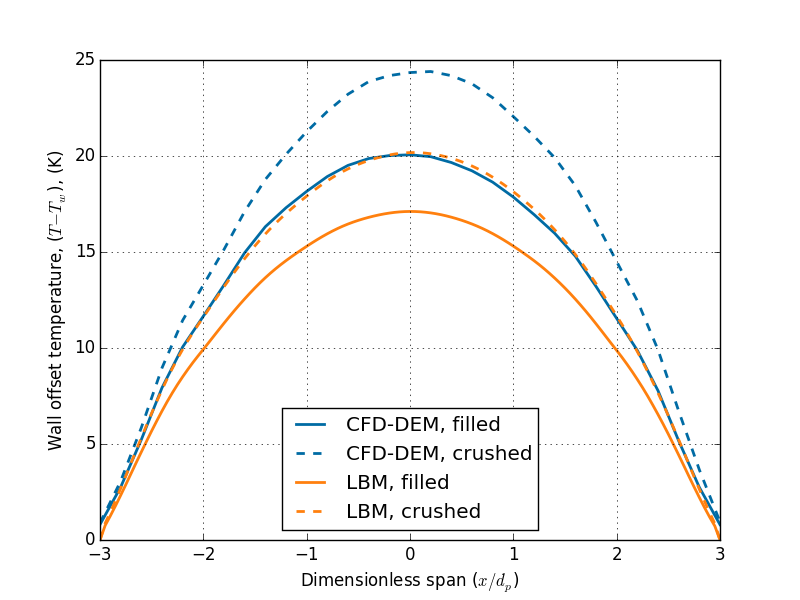
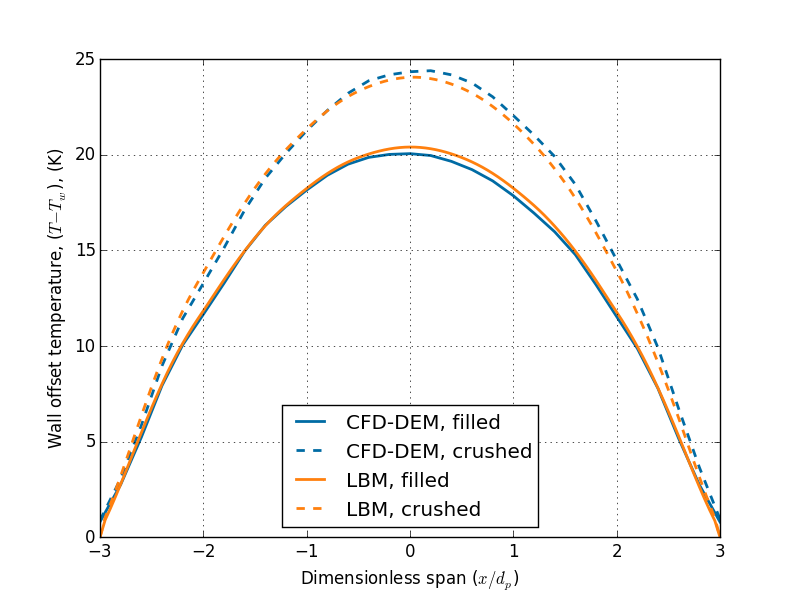
adds changes before fengchen review

diff --git a/chapters/summary.tex b/chapters/summary.tex
@@ -1,46 +1,32 @@
 \chapter{Summary}\label{sec:summary}
-The objectives of the research was to develop predictive capabilities for temperature distributions in tritium breeding pebble beds with altered packing structures. The scope of the thesis includes development of DEM, coupled CFD-DEM, and LBM-DEM models; and application of the models under several fusion-relevant conditions to provide understanding of packing alterations and their ramifications on temperature distributions.
 
-\section{Development of Predictive Capabilities}
-\subsection{Discrete Element Method Models of Solid Breeder Heat Transfer}
-The discrete element method is important for blanket researchers and designers because it allows interrogation of solid-solid interactions in pebble beds and nature of heat transfer on scales at which packing structures operate. In this way, the models allow exploration of evolving packing structures that will occur during operation of a ceramic pebble bed. The DEM modeling of heat transfer was validated against experimental measurements of effective thermal conductivity of pebble beds in vacuum, when contact conductance dominates. I showed that smooth-sphere approximation of pebbles was seen to over-predict the ability of pebbles to transport energy between contacts. Reductions in contact conductance due to roughness were then shown to allow DEM models to approach experimental measurements.
+Numerical modeling development and application were conducted to understand thermal responses of pebble beds under conditions of altered packing, \textit{viz.}, crushed and fragmented pebbles and ultimately demonstrated predictive capabilities of our models under these conditions. The scope of the thesis includes development of DEM, coupled CFD-DEM, and LBM-DEM models; and application of the models under several fusion-relevant conditions to provide understanding of packing alterations and their ramifications on temperature distributions.
 
-A new phenomenological model of fragmentation is introduced into DEM for simulating crushed pebbles. The modeling approach allows fragments of arbitrary size to be inserted into the system in an energy- and mass/volume-conserving fashion. A parametric study on fragment sizes revealed that smaller pebble fragments were seen to be capable of traveling relatively long distances before re-settling. Redistribution of mass was seen in increased local packing fractions of beds. Nuclear heating of the beds will also be affected by mass redistribution and was studied during applications of the models for ITER-relevant pebble beds.
+%\section{Development of Predictive Capabilities and Modeling}
 
-From a mechanical perspective on packed bed modeling with DEM, experimental measurements on crushed pebbles showed a wide spread in force-displacement responses. A novel approach to capture the phenomena numerically was with a modified Young's modulus which replicated the reduction in stiffness seen in experiments. The model with modified Young's moduli predict more compliant pebble beds and smaller peak contact forces in beds, which ultimately led to fewer predicted crushed pebbles from DEM models.
+%The discrete element method was first applied to studying solid breeder pebble beds with two-dimensional models by Zi Lu at UCLA in 2000.\cite{Lu2000} The modeling approach is recognized as providing valuable information of packing states in pebble beds and, as such, has gainted traction in the fusion community and now groups in the US, EU, India, Japan, Korea, and China have all begun DEM modeling efforts. 
+This thesis presents the most complete and validated three-dimensional, dynamic thermal DEM modeling for solid breeders, to date. Currently-available DEM models of heat transfer due to contact conductance was validated against experimental measurements of effective thermal conductivity of pebble beds in vacuum, when contact conductance dominates. I showed that smooth-sphere approximation of pebbles, as used in all other DEM models of packed beds, was seen to over-predict the ability of pebbles to transport energy between contacts with an error of 155\%. A roughness model was implemented into the numeric calculation of contact conductance in DEM and the resultant effective thermal conductivity calculations reduced the error to only approximately 50\%. 
 
+A new phenomenological model of fragmentation was developed for DEM to simulate crushed pebbles and concomitant effects on pebble bed thermomechanics. The modeling approach allows fragments of arbitrary size to be inserted into the system in an energy- and mass/volume-conserving fashion. A parametric study on fragment sizes revealed that smaller pebble fragments were seen to be capable of traveling relatively long distances before re-settling; approximately 10\% of pebbles traveled more than the original pebble diameter. Redistribution of mass was seen in increased local packing fractions of beds. Nuclear heating of the beds will also be affected by mass redistribution and was studied during applications of the models for ITER-relevant pebble beds. From a mechanical perspective on packed bed modeling with DEM, experimental measurements on crushed pebbles showed a wide spread in force-displacement responses. A novel approach to capture the phenomena numerically was with a modified Young's modulus which replicated the reduction in stiffness seen in experiments. Variations in elastic modulus is implemented numerically with Gaussian distributions fit to experimental measurements in DEM. DEM models with modified Young's moduli predict more compliant pebble beds and smaller peak contact forces in beds, which ultimately led to fewer predicted crushed pebbles from DEM models.
 
-\subsection{CFD-DEM}
-The interstitial helium purge gas is introduced into the heat transfer modeling of solid breeders by means of a continuum approach with volume-averaged integrations of Navier-Stokes and energy conservation equations. Coupling between the volume-averaged computational fluid dynamics (CFD) model and DEM is dynamic and two-way. Experimental correlations for Nusselt number and drag coefficient are used to calculate exchange coefficients in every cell of the CFD mesh. The exchange coefficients are applied to heat transfer and momentum equations for DEM particles located inside the CFD cell and the summation of those interactions, on a volume-average basis, are included as source terms to the fluid conservation equations. The volume-averaged approach to solving conservation equations for helium allows for efficient computational calculation of two-phase flow in packed beds.
+%Coupled models of volume-averaged CFD and DEM have existed in porous media research since the approach was introduced by Tsujita\etal~in 1992.\cite{Tsuji1992} 
+The work of this thesis also represents the first application of CFD-DEM approach to solid breeder research for which nuclear heat generation in solids, tight-pack structures, and slow-moving purge gas fluid phase are dominate physical phenomena. Due to the unique operating conditions of solid breeders, advancements to the CFD-DEM code were also required to complete the research objectives of this work. Using an exact analytic solution for a single sphere with heat generation in a quiescent fluid, I showed how the lumped capacitance method, an assumption inherent to DEM, remains valid for both transient and steady-state solutions after a so-called Jeffreson correction is used in the calculation of heat transfer coefficient from Nusselt correlations. The algebraic form of Jeffreson correction was implemented in the coupling between CFD-DEM with negligible computational overhead. Corrected versions of heat transfer coefficients compensated for low-Biot number errors due to low solid conductivity with large volumetric heat sources. Once the correction factor was implemented for calculations of inter-phase heat transfer exchange coefficients, temperature predictions of CFD-DEM models were validated against experimental measurements of effective conductivity with stagnant helium with excellent agreement. Furthermore, the pressure drop measured in CFD-DEM packed bed models were shown to match the Kozeny-Carman correlation over the range of all Reynolds numbers relevant to solid breeder designs.
 
-Using an exact analytic solution for a single sphere with heat generation in a quiescent fluid, I showed how the lumped capacitance solution can remain valid for both transient and steady-state solutions after a so-called Jeffreson correction was used in the calculation of heat transfer coefficient from Nusselt correlations. The algebraic form of Jeffreson correction was implemented in the coupling between CFD-DEM with negligible computational overhead. Corrected versions of heat transfer coefficients compensated for low-Biot number errors due to low solid conductivity with large volumetric heat sources.
+%Finally, advantages of using the lattice-Boltzmann method for studying packed or porous flow have been recognized since at least 1992 when Benzi\etal~studied its application for flows in complex geometries.\cite{Benzi1992} 
+Finally, in terms of modeling development, in this thesis is also the first application of the lattice-Boltzmann method for modeling the conjugate heat transfer of flowing helium and volumetric heating of pebble beds. We also showed that proper selection of lattice properties is critical for LBM simulations of fluid flow and heat transfer. For densely packed solid breeder beds, we found a resolution of 20 voxels per pebble diameter was sufficient for results that were: stable, capable of reproducing correct hydrodynamics, and, importantly, computationally tractable. Consistency in packing structure is also guaranteed with a numerical scheme for mapping DEM pebble information and LBM with automated  modification of pebble radii; accomplished through measurements of digital packing fraction in LBM lattices. The schemes are written as methods available to for 
 
-Heat transfer predictions of CFD-DEM models were validated against numerical measurements of effective conductivity with stagnant helium. Furthermore, the pressure drop measured in CFD-DEM packed bed models were shown to match the Kozeny-Carman correlation over the range of all Reynolds numbers relevant to solid breeder designs.
+Studying the thermomechanical impact of irradiation damage on ceramic materials, temperature profiles were predicted for pebble beds with irradiation-induced reductions in solid thermal conductivity. With interstitial fluid, reduction in effective thermal conductivity was linearly related to reduction in solid conductivity. The model, in the limit of stagnant interstitial fluid was shown to match common SBZ correlations for effective thermal conductivity as a function of solid conductivity. However, the CFD-DEM-based model is also applicable in the cases of altered packing, flowing fluid, and other mixed pebble bed types which are all conditions beyond the realm of SBZ application.
 
-\subsection{DEM-LBM}
-6) Method for mapping DEM to LBM
-7) Resolution \& effects on hydrodynamics
+CFD-DEM models were used to conduct multi-scale studies of granular heat transfer in representative tritium-breeding ceramic pebble bed volumes with altered packing structures as a result of crushed pebbles. The studies were performed with parametric variations of: bed orientation with respect to gravity, pebble crushing amount, initial packing fraction, and crushed fragmentation size. The models revealed that pebble crushing and bed resettling effects on temperature are complicated, synergistic functions of breeder design and ceramic material employed. From the predicted temperature distributions, several recommendations to breeder designers were put forth. For instance, if one were using a material known to have a limited crush strength, one might accept that many pebbles could break (at least up to 5\%, as studied here) over the life of the breeder and choose to employ the European ITER-style TBM because it saw smaller increases in temperature after long operation of the breeder. Alternatively, if one had a ceramic material with a larger crush strength, the vertical design of TBM, common to many other Party designs, would be preferable as it generally retained lower overall and maximum bed temperatures when fewer pebbles in the ensemble were crushed.
 
-% SUMMARY OF CH 5
-Toward development of hydrodynamically accurate lattice-Boltzmann method (LBM) nodal construction, several numerical studies were performed. In
-
-
-
-We also showed that proper selection of lattice properties can lead to stable solutions that are also faithful to the macroscopic fluid mechanics being modeled. Consistency in packing structure representation is maintained between DEM and LBM through modification of pebble radii when mapped on LBM voxels; accomplished through measurements of digital packing fraction in LBM lattices. We then considered the effects of grid sizing and resolution on stability of packed bed simulations. For densely packed beds, we found a resolution of 20 pixels/nodes per pebble diameter was sufficient for results that were: stable, capable of reproducing correct hydrodynamics, and computationally tractable.
-
-\section{Application of models}
-Once preliminary validation had been performed with the DEM, CFD-DEM, and LBM-DEM models developed, the models were applied to various studies of fusion-relevant cases of pebble bed volumes that extend beyond currently known configurations.
-
-In the first application of the CFD-DEM models developed for this research, a study was performed on the effects of irradiation damage to solid conductivity on overall effective thermal conductivity of pebble beds. The study was carried out by numerically reducing solid conductivity and measuring the resultant effective conductivity in a bed with and without stagnant helium. From the results, it was seen that effective conductivity of pebble beds with irradiation damage to the solid phase conductivity followed trends predicted by effective thermal conductivity correlations such as the SBZ model.
-
-I then used the CFD-DEM modeling tools to conduct several multi-scale studies of granular heat transfer in representative tritium-breeding ceramic pebble bed volumes. The studies focused on measuring the temperature response in tritium breeding volumes with altered packing structures as a result of crushed pebbles. The studies were performed with parametric variations of: bed orientation with respect to gravity, pebble crushing amount, initial packing fraction, and crushed fragmentation size.
-
-The results from the models developed in this thesis revealed that pebble crushing and bed resettling effects on temperature are complicated, synergistic functions of breeder design and ceramic material employed. From the predicted temperature distributions, several recommendations to breeder designers were put forth. For instance, if one were using a material known to have a limited crush strength, one might accept that many pebbles could break (at least up to 5\%, as studied here) over the life of the breeder and choose to employ the European ITER-style TBM because it saw smaller increases in temperature after long operation of the breeder. Alternatively, if one had a ceramic material with a larger crush strength, the vertical design of TBM, common to many other Party designs, would be preferable as it generally retained lower overall and maximum bed temperatures when fewer pebbles in the ensemble were crushed.
-
-Finally, lattice-Boltzmann model developed in this thesis was applied to study effects of helium's tortuous flow through tightly packed solid breeder volumes. With the model, I was capable of considering pore-scale influences of crushing on void fraction distribution and consequent velocity fields of pebble beds. I found that crush fragments increased tortuosity of pebble beds, in spite of the constant overall void fraction of the bed overall. The increased tortuosity resulted in considerably higher transverse thermal dispersion for pebble beds with crushed fragments; however, transverse thermal conductivities for crushed and non-crushed beds were negligible compared to molecular diffusion of heat in transverse directions as a result of low Peclet numbers anticipated for solid breeder purge gas. I also showed that temperature distributions in low-Peclet packed beds were well characterized by the considerably less computationally draining volume-averaging techniques of CFD-DEM, as measured by comparison of temperature profiles between LBM-DEM and CFD-DEM.
+The tortuous advection of energy from helium moving through the complex interstitial voids in packed beds, over the range of Reynolds numbers currently relevant to solid breeder designs, was negligible compared to molecular diffusion of energy in the direction transverse to flow. Nevertheless, for equivalent packing fractions, pebble beds with crush fragments increased tortuosity of pebble beds due to localized increases in packing fractions, in spite of the constant overall void fraction of the bed overall. The increased tortuosity resulted in considerably higher transverse thermal dispersion for pebble beds with crushed fragments, an increase of 23\%. However, transverse thermal conductivities for crushed and non-crushed beds were both negligible compared to heat conducted in transverse directions. LBM models confirmed that packed beds with low-Peclet flows were, in fact, well characterized by the considerably less computationally draining volume-averaging techniques of CFD-DEM, as measured by comparison of temperature profiles between LBM-DEM and CFD-DEM.
 
 \section{Recommendation for Future Work}
-There are many causes that can lead to alterations of packing structures inside solid breeder volumes. Yet in this thesis, I considered only the heat transfer response to packing alterations due to crushed pebbles and fragmentation.
 
+Any predictive tool must be validated. The models developed in this thesis were meant to study packed beds due to alterations in the structure due to crushed pebbles because of observations made on fragmented \lis~and cracked \lit~pebbles coming out of post-irradiation experiments -- as well as the observable low crush force of \lis~in single pebble crush experiments. Paradoxically, the models of this thesis were developed because experimental observation of packing structures with fragmented pebbles is extremely difficult, and yet the numerical developments can not be validated without proper experimental data. Careful attention must be paid to experimental efforts which may yield data which can directly validate DEM results, even on a small scale, such that large-scale simulations which are untenable with experiments may be performed. 
 
-Moreover, large packing fractions are generally avoided in solid breeder blankets in order to avoid their concomitant increase in pressure drop. However, from the investigation performed with heat transfer in lattice-Boltzmann simulations, it is worth revisiting the topic from the point of view of energy management and the ability for packed beds to sustain larger power densities. The lattice-Boltzmann technique can, however, help in studying novel concepts for increasing heat transfer in packed beds in order to increase power density, such as the increase in dispersive conductivity due to mixed pebble beds and high packing fractions.
+The numeric models and schemes developed in this thesis were done on top of popular open-source DEM code, LIGGGHTS, CFD code, OpenFOAM, and LBM code, Palabos. This was done with the intention that the modules developed here may be used by future researchers on pebble beds. Beyond pebble crushing, however, there are several other causes that may lead to alterations of packing structures inside solid breeder volumes and they can be added on top of the code modules developed here. For example, contact forces and other information as a function of time is available from the DEM code. While \lit~pebbles have shown themselves to be much more resistant to crushing (crush forces are nearly an order of magnitude larger than \lis~pebbles) experiments we have performed on \lit~pebble beds have revealed their tendency to `neck' or sinter at contact areas. Sintering and creep-diffusion may have a major impact on heat transfer in pebble beds and we are capable of modeling them on the pebble scale with DEM. 
+
+DEM and CFD-DEM models should also be applied to studying methods for enhancing heat transfer in pebble beds due to mixed breeder/multiplier concepts such as the Japanese design of titanium beryllides (\ce{Be12Ti}). Mixed volumes of both neutron multiplier and tritium breeder may have high tritium breeding ratios with acceptable tritium inventory of the beryllides. Moreover, the dense packing available from potentially large differences of pebble radii can have advantageous impacts on heat transfer in pebble beds. DEM can reveal changes to contact forces, contact conductance, and segregation of material after many thermal cycles. 
+
+Finally, large packing fractions are generally avoided in solid breeder blankets in order to avoid their concomitant increase in pressure drop. However, from the investigation performed with heat transfer in lattice-Boltzmann simulations, it is worth revisiting the topic from the point of view of energy management and the ability for packed beds to sustain larger power densities. We observed that transverse thermal dispersion was negligible at low Peclet numbers and with mono-sized pebble packings in the LBM-based study. Increasing flow velocity will increase Peclet number and pressure drop, though at different rates. On the one hand, pressure drop is linearly proportional to $u_f$ until about $\Re = 100$, above which it is proportional to $u_f^2$. As an example, the Korean TBM design has a particle $\Re \approx 1$. This could allow a ten-fold increase in velocity with only a linearly similar increase in pressure drop. On the other hand, Kuwahara \etal~fit a correlation for $k_\text{disp}$ to be proportional to $\Pe^2$, and thus $u_f^4$. As a consequence, dispersive conductivity increases at a much more rapid rate than pressure drop and heat transfer enhancements due to dispersive conductivity may overwhelm the negative effects of increased pressure drop.

diff --git a/chapters/application.tex b/chapters/application.tex
@@ -882,11 +882,11 @@ Applying volume-averaging-theory (VAT), the intrinsic energy equation for a flui
 \end{equation}
 where $\langle T_f\rangle^f$ is the intrinsic volume average of fluid temperature and $\langle T_s\rangle^s$ is the intrinsic volume average of solid phase temperature. $h$ is a closure term for heat transfer coefficient between solid and fluid phases which is applied over the volumetric interfacial surface area, $S_w = A_{fs}/V$, in the REV. The effective conductivity for the fluid is a tensor that is composed of the stagnant thermal conductivity, including diffusive conductivity and the `tortuousity' conductivty, and the dispersion conductivity,
 \begin{equation}
-\vec{k}_{f,\text{eff}} = \cdot\nabla\langle T_f\rangle^f  = \vec{k}_{i,\text{stag}}\cdot\nabla\langle T_f\rangle^f + \vec{k}_{i,\text{disp}}\cdot\nabla\langle T_f\rangle^f 
+\vec{k}_{f,\text{eff}} \cdot\nabla\langle T_f\rangle^f  = \vec{k}_{i,\text{stag}}\cdot\nabla\langle T_f\rangle^f + \vec{k}_{i,\text{disp}}\cdot\nabla\langle T_f\rangle^f 
 \end{equation}
 where
 \begin{align}
-\vec{k}_{f,\text{stag}}\cdot\nabla\langle T_f\rangle^f &= \epsilon k_f \nabla\langle T_f\rangle^f + \frac{1}{V}\int_{Afs}\! T_f \,\mathrm{d}\vec{A}
+\vec{k}_{f,\text{stag}}\cdot\nabla\langle T_f\rangle^f &= \epsilon k_f \nabla\langle T_f\rangle^f + \frac{1}{V}\int_{Afs}\! T_f \,\mathrm{d}\vec{A} \\
 \vec{k}_{f,\text{disp}} \cdot \nabla \langle T\rangle^f &= -\epsilon\rho_f C_{pf}\langle T_f' \vec{u}_f'\rangle^f
 \end{align}
 

diff --git a/scripts/lbm/temperature-comparison-filled-crushed.py b/scripts/lbm/temperature-comparison-filled-crushed.py
@@ -53,7 +53,7 @@ x_lbm = np.linspace(-3, 3, 121)
 # LBM ~~~~~~~~~~~~~~~~~~~~~~~~~~~~~~~~~~~~~~~~~~~~~~~~~~~~~~~~~~~
 with open('y-profiles-filled.pkl', 'rb') as f:
     [v, T_filled, phi_y] = pickle.load(f)
-    T_filled = T_filled*109000
+    T_filled = T_filled*130000
 deltaT = np.max(T_filled) - np.min(T_filled)
 keff_filled = q_nuc*phi_k*L**2/(2*deltaT)
 print(keff_filled)
@@ -62,7 +62,7 @@ plt.plot(x_lbm, T_filled, color=color_idx[1], linewidth=2, label='LBM, filled')
 
 with open('y-profiles-crushed.pkl', 'rb') as f:
     [v, T_crushed, phi_y] = pickle.load(f)
-    T_crushed = T_crushed*130000
+    T_crushed = T_crushed*155000
 deltaT = np.max(T_crushed) - np.min(T_crushed)
 keff_crushedT  = q_nuc*phi_k*L**2/(2*deltaT)
 print(keff_crushedT )

diff --git a/VanLewDissertation.tex b/VanLewDissertation.tex
@@ -15,7 +15,7 @@
 \input		{acknowledgements}
 \input		{vita}
 \input		{abstract}
-\begin{document}   
+\begin{document}
 \makeintropages
 \input		{chapters/introduction.tex}
 \input		{chapters/litreview.tex}
